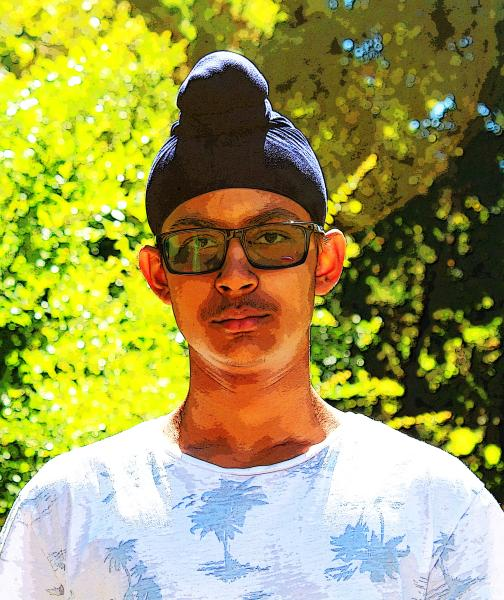
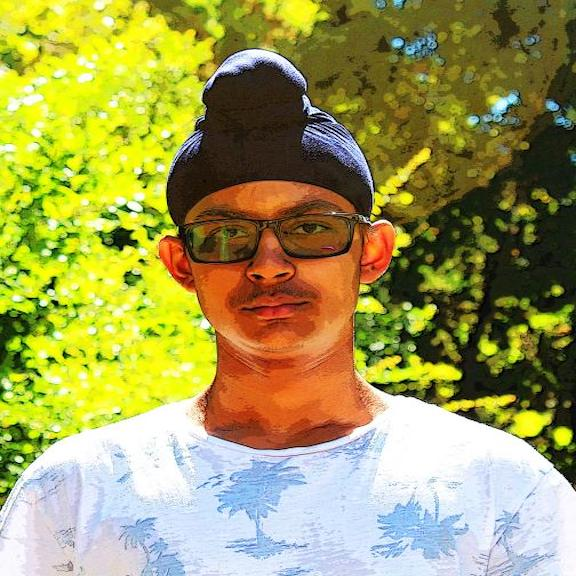
fixed images

diff --git a/website/website/index.html b/website/website/index.html
@@ -186,7 +186,7 @@
 								<div class="card-img">
 									<div class="image-wrap">
 										<img src="images/profpics/rushil.jpg" alt="Round Image"
-											class="rounded img-fluid image image-2 image-full" style="width: 75%">
+											class="rounded img-fluid image image-2 image-full" >
 										<div class="text">
 											<div class="img img-2 round-circle"
 												style="background-image: url(images/profpics/rushil.jpg);"></div>
@@ -281,7 +281,7 @@
 						  <i class="ion-ios-lock"></i>
 						</span>
 					  </div>
-					  <input type="password" class="form-control" placeholder="Password...">
+					  <input type="password" class="form-control" placeholder="Message...">
 					</div>
 				  </div>
 			<!-- - - - - -end- - - - -  -->
